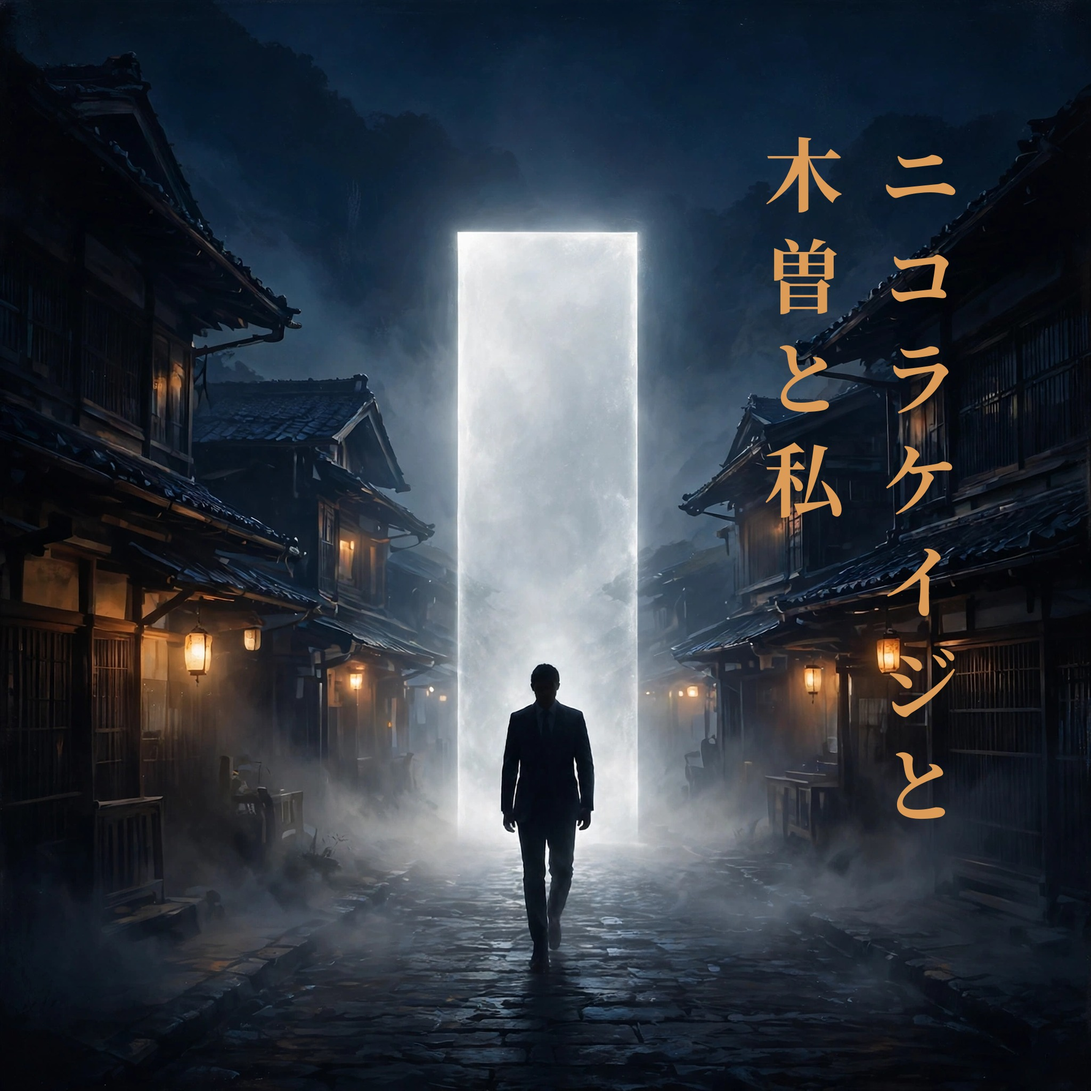
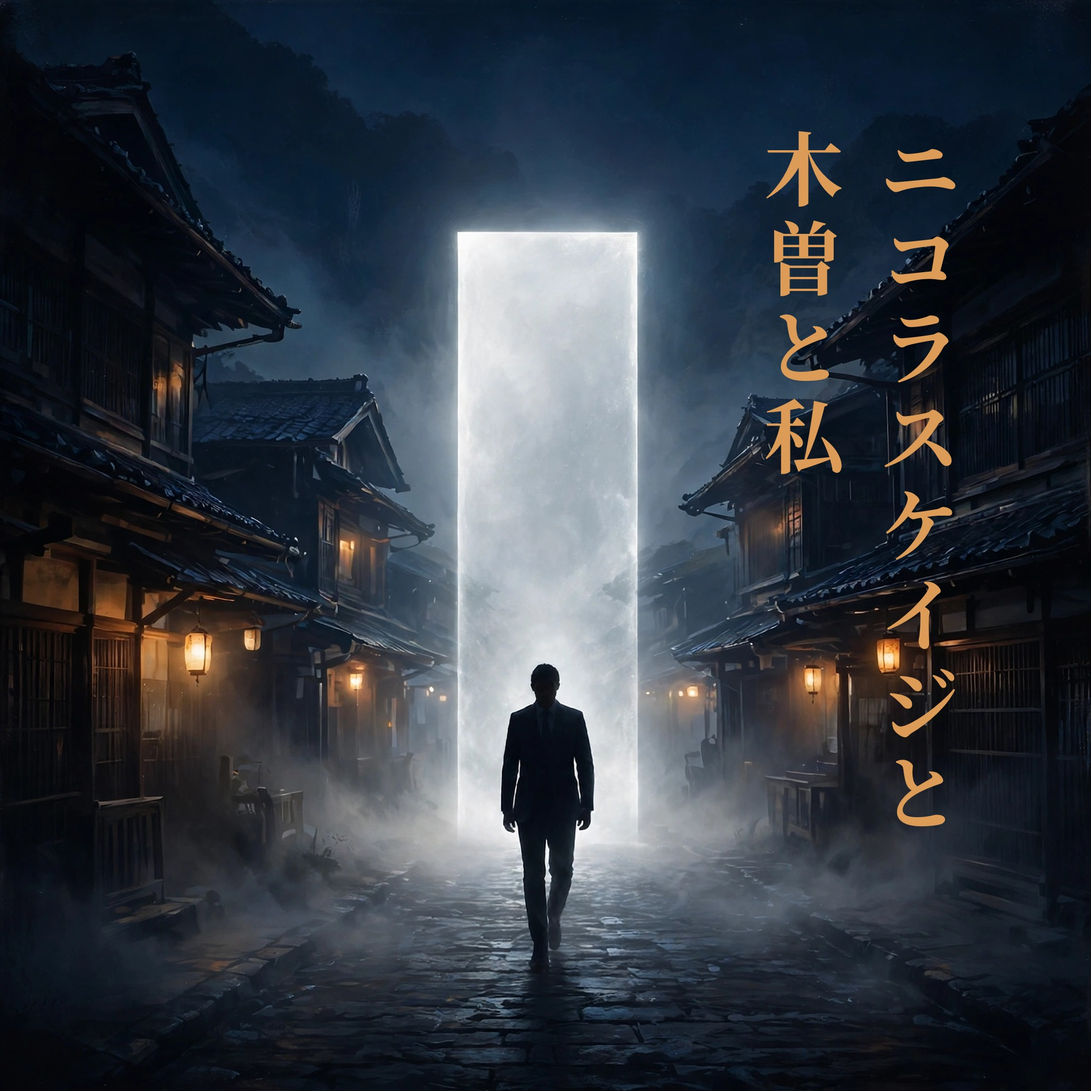
正式名称『ニコラスケイジと木曽と私』に表記を統一 v1.1.12 (#9)
- album.ts / index.html / vite.config.ts / README / CLAUDE.md の作品名を正式名称に修正（従来の登録名は「ス」が欠けていた。曲名・sync キーは元々正式名称どおり）
- 表ジャケットの題字を正式名称で再合成（候補A3原案の8字レイアウトに復元）、アイコン再生成
- 裏ジャケットの見出しタイトルも正式名称に差し替え

Changed region(s): [[0.8125, 0.2188, 0.875, 0.7812], [0.6875, 0.125, 0.7812, 0.4688], [0.8125, 0.125, 0.875, 0.1875]]

diff --git a/index.html b/index.html
@@ -6,16 +6,16 @@
     <meta name="viewport" content="width=device-width, initial-scale=1, viewport-fit=cover" />
     <meta name="theme-color" content="#101a30" />
     <meta name="app-id" content="__APP_ID__" />
-    <meta name="description" content="コンピレーションアルバム『ニコラケイジと木曽と私』を聴くためのデジタルCDアルバム" />
+    <meta name="description" content="コンピレーションアルバム『ニコラスケイジと木曽と私』を聴くためのデジタルCDアルバム" />
     <meta name="color-scheme" content="dark only" />
     <meta name="mobile-web-app-capable" content="yes" />
     <meta name="apple-mobile-web-app-capable" content="yes" />
     <!-- iPhone のホーム画面アプリ: ステータスバーは不透明にする（black-translucent だと上端の内容がぼやける） -->
     <meta name="apple-mobile-web-app-status-bar-style" content="black" />
-    <meta name="apple-mobile-web-app-title" content="ニコラケイジと木曽と私 ― デジタルCDアルバム" />
+    <meta name="apple-mobile-web-app-title" content="ニコラスケイジと木曽と私 ― デジタルCDアルバム" />
     <link rel="icon" type="image/png" href="icons/icon-192.png" />
     <link rel="apple-touch-icon" href="icons/apple-touch-icon.png" />
-    <title>ニコラケイジと木曽と私 ― デジタルCDアルバム</title>
+    <title>ニコラスケイジと木曽と私 ― デジタルCDアルバム</title>
   </head>
   <body>
     <!-- 表ジャケット -->

diff --git a/vite.config.ts b/vite.config.ts
@@ -6,7 +6,7 @@ import { VitePWA } from 'vite-plugin-pwa';
 const { version, name: appId } = JSON.parse(readFileSync(new URL('./package.json', import.meta.url), 'utf8')) as { version: string; name: string };
 
 // アプリ名・色はここと index.html の2か所だけ。新しいアプリを作るときに書き換える。
-const APP_NAME = 'ニコラケイジと木曽と私 ― デジタルCDアルバム';
+const APP_NAME = 'ニコラスケイジと木曽と私 ― デジタルCDアルバム';
 const THEME_COLOR = '#101a30';
 const BACKGROUND_COLOR = '#101a30';
 // 音源の実行時キャッシュ名。src/download.ts（初回一括ダウンロード）も同じ名前を使う（define で埋め込む）。
@@ -36,7 +36,7 @@ export default defineConfig({
       manifest: {
         name: APP_NAME,
         short_name: '木曽と私',
-        description: 'コンピレーションアルバム『ニコラケイジと木曽と私』を聴くためのデジタルCDアルバム',
+        description: 'コンピレーションアルバム『ニコラスケイジと木曽と私』を聴くためのデジタルCDアルバム',
         lang: 'ja',
         display: 'standalone',
         start_url: './',

diff --git a/src/album/album.ts b/src/album/album.ts
@@ -11,7 +11,7 @@ export const ALBUM: {
   printedBackList?: boolean;
 } = {
   /** アルバムの題名 */
-  title: 'ニコラケイジと木曽と私',
+  title: 'ニコラスケイジと木曽と私',
   /** カタログ番号 */
   catalog: 'NK-001',
   /** 形式の呼び名 */

diff --git a/README.md b/README.md
@@ -1,6 +1,6 @@
-# ニコラケイジと木曽と私 ― デジタルCDアルバム
+# ニコラスケイジと木曽と私 ― デジタルCDアルバム
 
-コンピレーションアルバム『ニコラケイジと木曽と私』(全10曲+ボーナストラック1曲、総再生時間 約32分)を聴くための PWA(デジタルCDアルバム、NK-001)。
+コンピレーションアルバム『ニコラスケイジと木曽と私』(全10曲+ボーナストラック1曲、総再生時間 約32分)を聴くための PWA(デジタルCDアルバム、NK-001)。
 
 公開 URL: https://tanabata-soft.github.io/nicholas-kiso-album/
 
